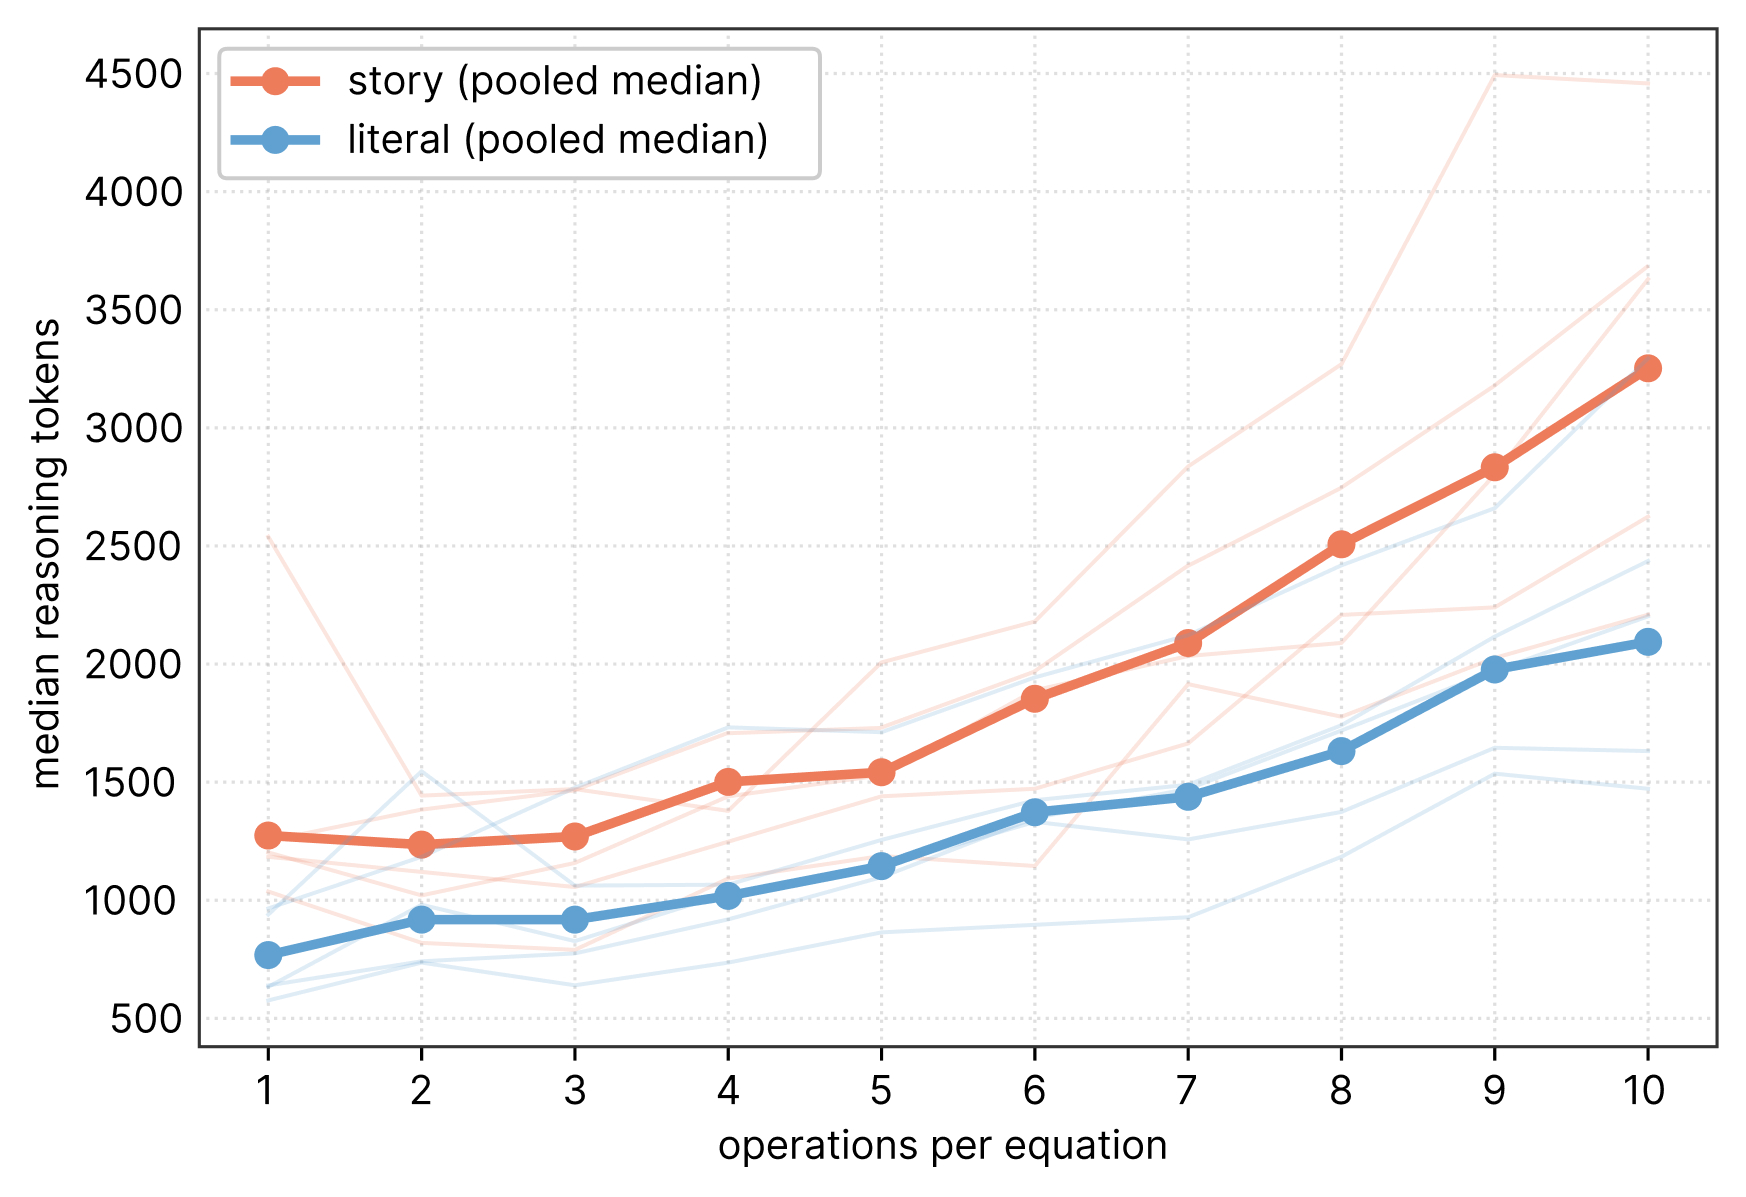
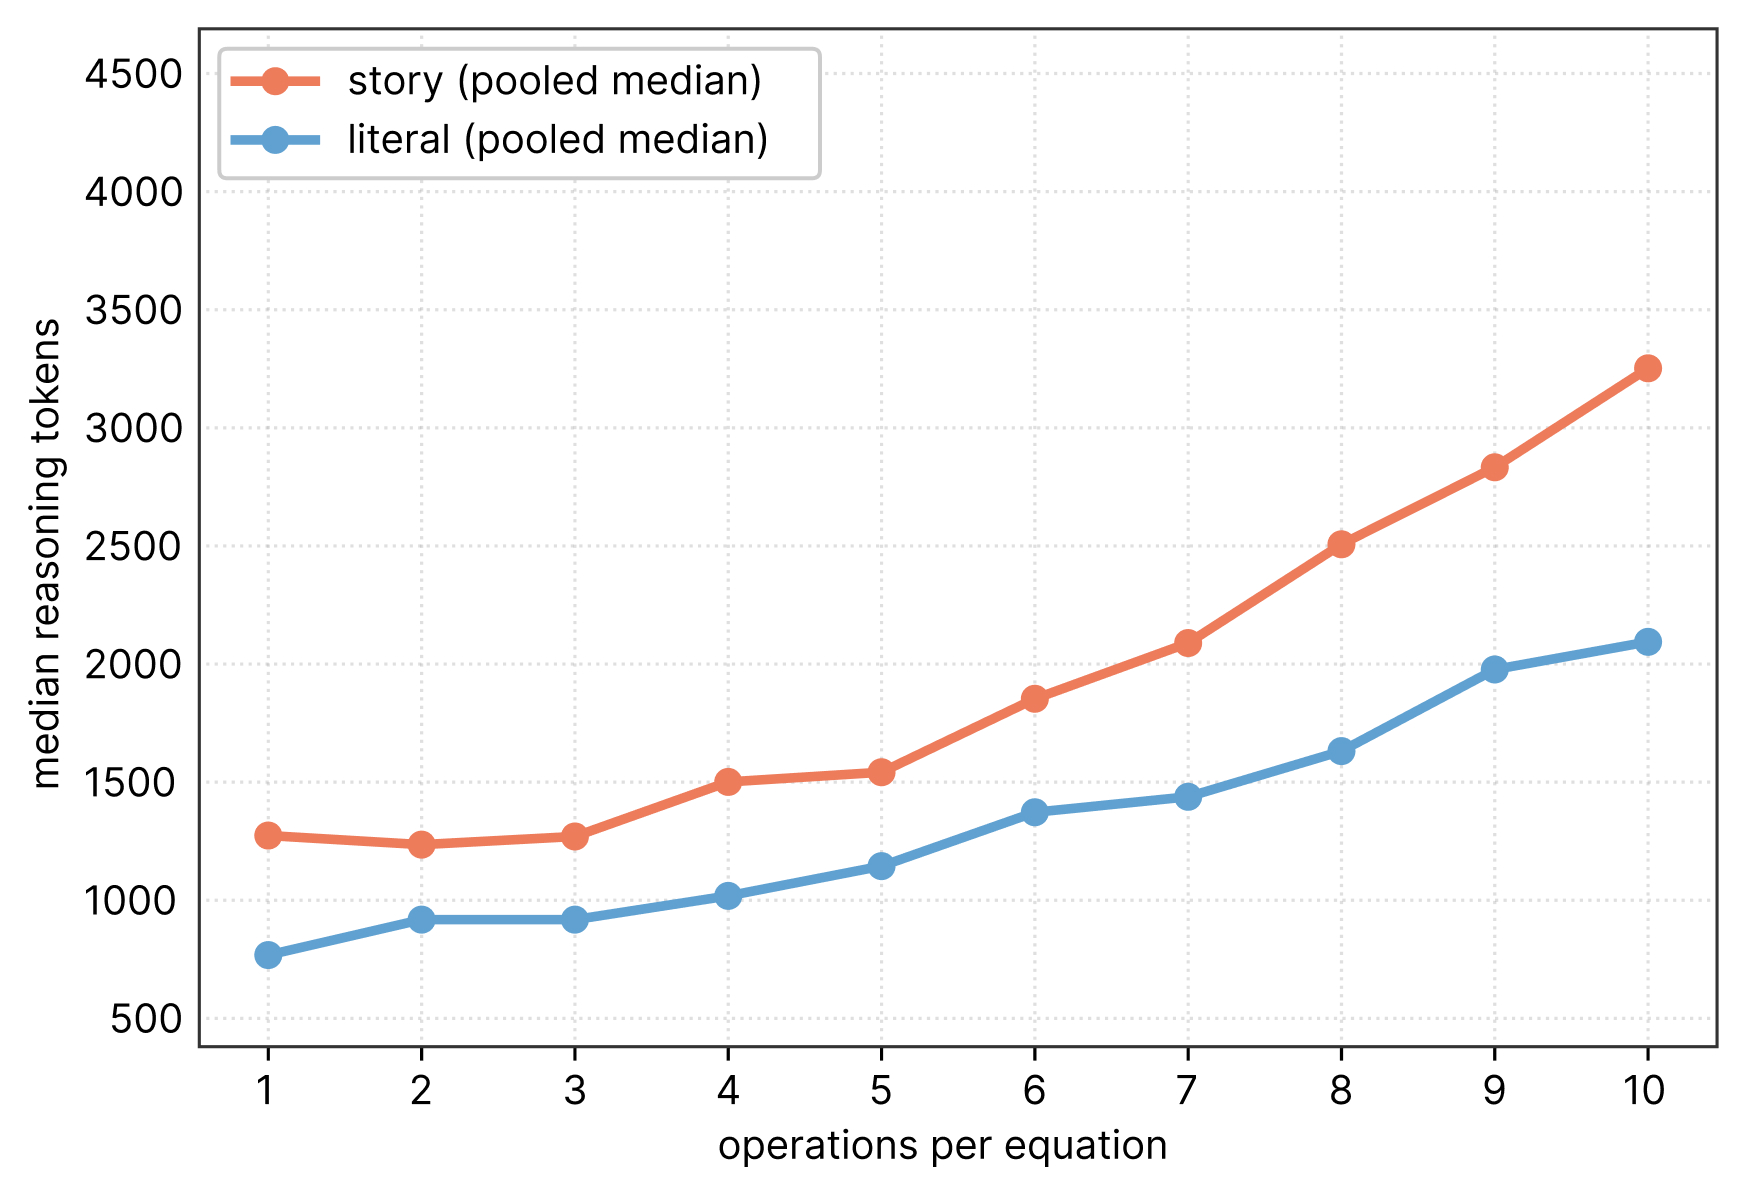
Citations (done) Figs (done) Small edits (done)

diff --git a/manuscript.tex b/manuscript.tex
@@ -115,8 +115,7 @@ Semantic drift can occur in several ways. A model tasked with autoformalizing ma
 encoding, or the faithfulness metric itself.
 
 Detecting semantic drift is difficult. Human evaluation is expensive, while language-model judges can accept incorrect formalizations or reject correct
-ones~\citep{kimina2025,chen2025reform}. Proof-based equivalence checks require a trusted reference formalization and may still depend on incomplete proof
-search. Proof-based equivalence checks require a trusted reference formalization and may still depend on incomplete proof search~\citep{liu2025rethinking,poiroux2025reliable,murphy2024leaneuclid}. As a result, existing evaluations often lack a scalable and deterministic way to determine whether the meaning of a source statement has been preserved.
+ones~\citep{kimina2025,chen2025reform}. Proof-based equivalence checks require a trusted reference formalization and may still depend on incomplete proof search~\citep{liu2025rethinking,poiroux2025reliable,murphy2024leaneuclid}. As a result, existing evaluations often lack a scalable and deterministic way to determine whether the meaning of a source statement has been preserved.
 
 
 
@@ -182,10 +181,10 @@ systems.
 %\oren{ I don't think Scalable Oversight should have a section in Related Works because our methods do not specifically target scalable oversight. I think the scalable oversight motivation should remain in the introduction}
 
 \paragraph{Informalization for data generation}
-The strongest current autoformalizers are language models fine-tuned on formal-informal pairs~\citep{gao2025herald,kimina2025,lin2025goedel}. Oftentimes, their training data is manufactured by having an LLM informalize an existing formal library.~\citep{jiang2023mma,gao2025herald}. We use informalization for the opposite purpose: performed by a deterministic renderer rather than a model, it yields an evaluation oracle instead of training data. This enables an exact ground truth formalization.  
+The strongest current autoformalizers are language models fine-tuned on formal-informal pairs~\citep{gao2025herald,kimina2025,lin2025goedel}. Oftentimes, their training data is manufactured by having an LLM informalize an existing formal library~\citep{jiang2023mma,gao2025herald}. We use informalization for the opposite purpose: performed by a deterministic renderer rather than a model, it yields an evaluation oracle instead of training data. This enables an exact ground truth formalization.  
 
 \paragraph{Measuring faithfulness.}
-Human-labelled sets such as ProofNetVerif~\citep{poiroux2025reliable}, ConsistencyCheck~\citep{chen2025reform}, CriticLeanBench~\citep{criticlean2025}, and MA-Align~\citep{mathatlas2026} are expensive to build, and the references they rest on are themselves unreliable: annotation found 16.4\% of the human-written formal statements in miniF2F and 38.5\% of those in ProofNet to be semantically wrong~\citep{chen2025reform}. Model-based methods trust a language model as a judge~\citep{ying2024leanworkbook,lin2025goedel,kimina2025,mathesis2025}, a trained critic~\citep{lu2025formalalign,criticlean2025}, or a back-translator~\citep{li2024symbolic}; the best judges agree with experts about 86\% of the time~\citep{chen2025reform}, and in specification autoformalization a judge missed a quarter of the failures that an executable check caught~\citep{verusspecgym2026}. Prover-based methods trust an automated prover to establish equivalence with a reference~\citep{liu2025rethinking,poiroux2025reliable,murphy2024leaneuclid}, and so need both a reference and a proof search that may time out. Every method above needs a human, a model, or an incomplete prover somewhere in the loop. 
+Human-labelled sets such as ProofNetVerif~\citep{poiroux2025reliable}, ConsistencyCheck~\citep{chen2025reform}, CriticLeanBench~\citep{criticlean2025}, and MA-Align~\citep{mathatlas2026} are expensive to build, and the references they rest on are themselves unreliable: annotation found 16.4\% of the human-written formal statements in miniF2F~\citep{zheng2022minif2f} and 38.5\% of those in ProofNet~\citep{azerbayev2023proofnet} to be semantically wrong~\citep{chen2025reform}. Model-based methods trust a language model as a judge~\citep{ying2024leanworkbook,lin2025goedel,kimina2025,mathesis2025}, a trained critic~\citep{lu2025formalalign,criticlean2025}, or a back-translator~\citep{li2024symbolic}; the best judges agree with experts about 86\% of the time~\citep{chen2025reform}, and in specification autoformalization a judge missed a quarter of the failures that an executable check caught~\citep{verusspecgym2026}. Prover-based methods trust an automated prover to establish equivalence with a reference~\citep{liu2025rethinking,poiroux2025reliable,murphy2024leaneuclid}, and so need both a reference and a proof search that may time out. Every method above needs a human, a model, or an incomplete prover somewhere in the loop. 
  
 \paragraph{Synthetic language with exact ground truth.}
 Synthetic and semi-synthetic reasoning benchmarks construct
@@ -197,7 +196,7 @@ and template-assisted stories and also evaluates
 natural-language-to-first-order-logic translation~\citep{han2022folio}.
  
 \paragraph{Staged formalization.}
-Passing through an intermediate representation on the way to a formal target is an old idea in semantic parsing, whether a canonical utterance~\cite{shin2021constrained} or an intermediate query language~\cite{guo2019irnet,gan2021natsql}. Prompting methods that first abstract a problem~\cite{zheng2023stepback} or draft an informal sketch~\cite{jiang2023dsp} follow the same pattern, and formalize-then-solve pipelines identify translation as a major source of error~\cite{olausson2023linc,pan2023logiclm,ye2023satlm,lyu2023faithfulcot}, motivating decomposition of the translation step~\cite{ryu2024divide}. The remedies proposed for autoformalization add a verifier or a feedback loop: reflective refinement~\cite{chen2025reform}, faithfulness-guided decoding~\cite{mohammad2026faithfulness}, or reranking candidates by symbolic equivalence~\cite{li2024symbolic}. Our two-stage route uses neither. It changes only how the model is asked, and it composes with any of them.
+Passing through an intermediate representation on the way to a formal target is an old idea in semantic parsing, whether a canonical utterance~\citep{shin2021constrained} or an intermediate query language~\citep{guo2019irnet,gan2021natsql}. Prompting methods that first abstract a problem~\citep{zheng2023stepback} or draft an informal sketch~\citep{jiang2023dsp} follow the same pattern, and formalize-then-solve pipelines identify translation as a major source of error~\citep{olausson2023linc,pan2023logiclm,ye2023satlm,lyu2023faithfulcot}, motivating decomposition of the translation step~\citep{ryu2024divide}. The remedies proposed for autoformalization add a verifier or a feedback loop: reflective refinement~\citep{chen2025reform} or reranking candidates by symbolic equivalence~\citep{li2024symbolic}. Our two-stage route uses neither. It changes only how the model is asked, and it composes with any of them.
 
 
 \section{Constructing the Benchmark} 
@@ -416,8 +415,8 @@ Under the two-stage protocol, we prompt the model to abstract the problem before
 
 \begin{figure}[t]
 \centering
-\includegraphics[width=0.85\columnwidth, height=0.42\textheight, keepaspectratio]{f2_arms_by_model-newer.jpg}
-\caption{ Faithfulness by surface form, per model (nine models, 160
+\includegraphics[width=0.85\columnwidth, height=0.43\textheight, keepaspectratio]{f2_arms_by_model-newer.jpg}
+\caption{Faithfulness by surface form, per model (nine models, 160
 stratified pairs, no reasoning, vacuous laws excluded). 
  Story accuracy trails
 literal accuracy for nearly every model; the two-stage protocol, which inserts one
@@ -545,7 +544,7 @@ gpt-5-mini & 1248 & 832 & 1.50 \\
 \end{tabular}
 \end{table}
 
-\denis{need to fix Figure 5, consider only keeping the 2 main lines}
+% \denis{need to fix Figure 5, consider only keeping the 2 main lines}
 
 \begin{figure}[H]
 \centering
